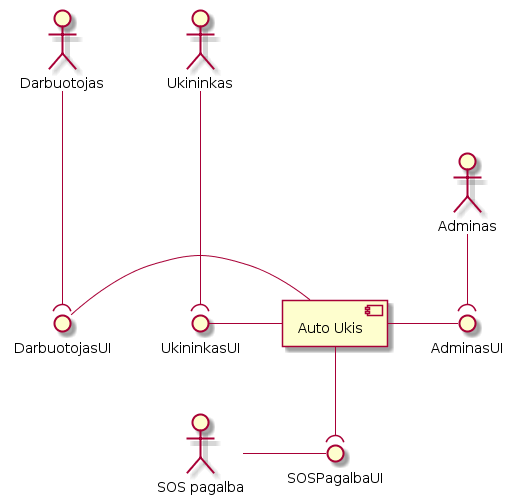
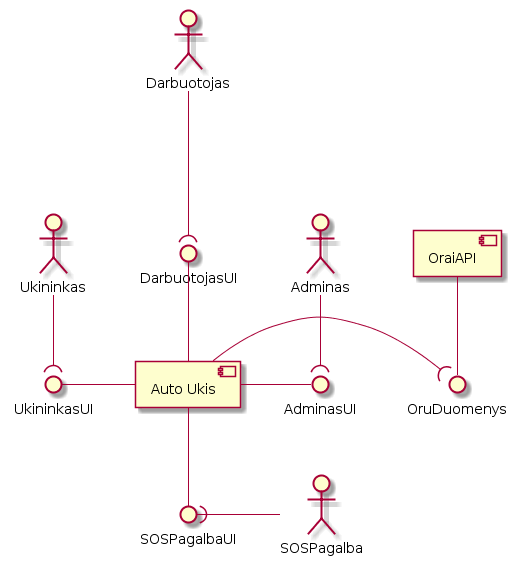
Klasiu diagrama (#110)
* Klasiu diagrama

Klasiu diagrama

* Update PSI Laboratorinis I.tex

* Comit

Comit

diff --git a/Latex/PSI Laboratorinis I.tex b/Latex/PSI Laboratorinis I.tex
@@ -1,4 +1,5 @@
-\documentclass[oneside]{VUMIFPSkursinis}
+
+	\documentclass[oneside]{VUMIFPSkursinis}
 \usepackage{algorithmicx}
 \usepackage{algorithm}
 \usepackage{algpseudocode}
@@ -343,7 +344,7 @@ Pirmoji programos versija buvo suprogramuota ir suprojektuota perdaug negalvojan
 	\begin{itemize}
 		\item Dizainas:
 			\begin{itemize}
-				\item Visas programos dizainas(16 pav) paremtas Top to Bottom principu. Pradėjome galvoti dideliais objektais ir juos išskirstėm į mažesnius. Pagrindinė klasė yra AutoUkis, kuris iškviečia VartotojoSasaja klasę, kuri ir piešia visą prieinamumą vartotojams. Galima nesunkiai pridėti kitokią vartotojo sąsają ar bet kokią kitą UI piešimo galimybę, kaip, pavyzdžiui, piešti UI išmaniajame telefone. Programos modalumas leidžia nesunkiai pridėti funkionalumo, nes programos dalys yra atskiros viena nuo kitos. Pavyzdžiui, ištrynus klasę ŪkinisPastatas visos programos veikimas nesutriktų. Tuo pačiu metu norint pridėti naują ūkinį pastatą galima nesunkiai tai padaryti įvykdžius paveldėjimą iš tėvinės UkinisPastatas klasės taip, kaip tai daro klasės Garažas, Tvartas ir Sandelis.  
+				\item Visas programos dizainas(16 pav) paremtas Top to Bottom principu. Pradėjome galvoti dideliais objektais ir juos išskirstėm į mažesnius. Pagrindinė klasė yra AutoUkis, kuris iškviečia VartotojoSasaja klasę, kuri ir piešia visą prieinamumą vartotojams. Galima nesunkiai pridėti kitokią vartotojo sąsają ar bet kokią kitą UI piešimo galimybę, kaip, pavyzdžiui, piešti UI išmaniajame telefone. Programos modalumas leidžia nesunkiai pridėti funkionalumo, nes programos dalys yra atskiros viena nuo kitos. Pavyzdžiui, ištrynus klasę ŪkinisPastatas visos programos veikimas nesutriktų. 
 			\end{itemize}
 		\item Funkionalumas: 
 			\begin{itemize}
@@ -368,7 +369,7 @@ Pirmoji programos versija buvo suprogramuota ir suprojektuota perdaug negalvojan
 	\begin{itemize}
 		\item Dizainas:
 		\begin{itemize}
-			\item Programos dizainas stipriai paremtas Top to bottom projektavimo principu ir objektinio programavimo enkapsuliacijos paradigma. Sistema(18 pav) sukuria ir įgyvendina kitų sistemų intefeisus. Pagrindiniai trys interfeisai, sukuriami programos, yra UkininkasUI, DarbuotojasUI ir AdminasUI. Šie interfeisai suteikia prieigą prie sistemos skirtingas privilegijas turintiems vartojams. Auto ūkis taip pat įgyvendina kitų sistemų suteikiamus interfeisus, kuriuos naudoja progamos logikoje duomenis gauti. Įgyvendinami interfeisai yra OruTarnybaAPI, SOSPagalbaAPI ir MikrokontrolerisAPI.
+			\item Programos dizainas stipriai paremtas Top to bottom projektavimo principu ir objektinio programavimo enkapsuliacijos paradigma. Sistema(18 pav) sukuria ir įgyvendina kitų sistemų intefeisus. Pagrindiniai keturi interfeisai, sukuriami programos, yra UkininkasUI, DarbuotojasUI ir AdminasUI, SOSPagalbaUI. Šie interfeisai suteikia prieigą prie sistemos skirtingas privilegijas turintiems vartojams. Sistema įgyvendina OruAPI kuriam interfeisą.
 
 		\end{itemize}
 	\end{itemize}
